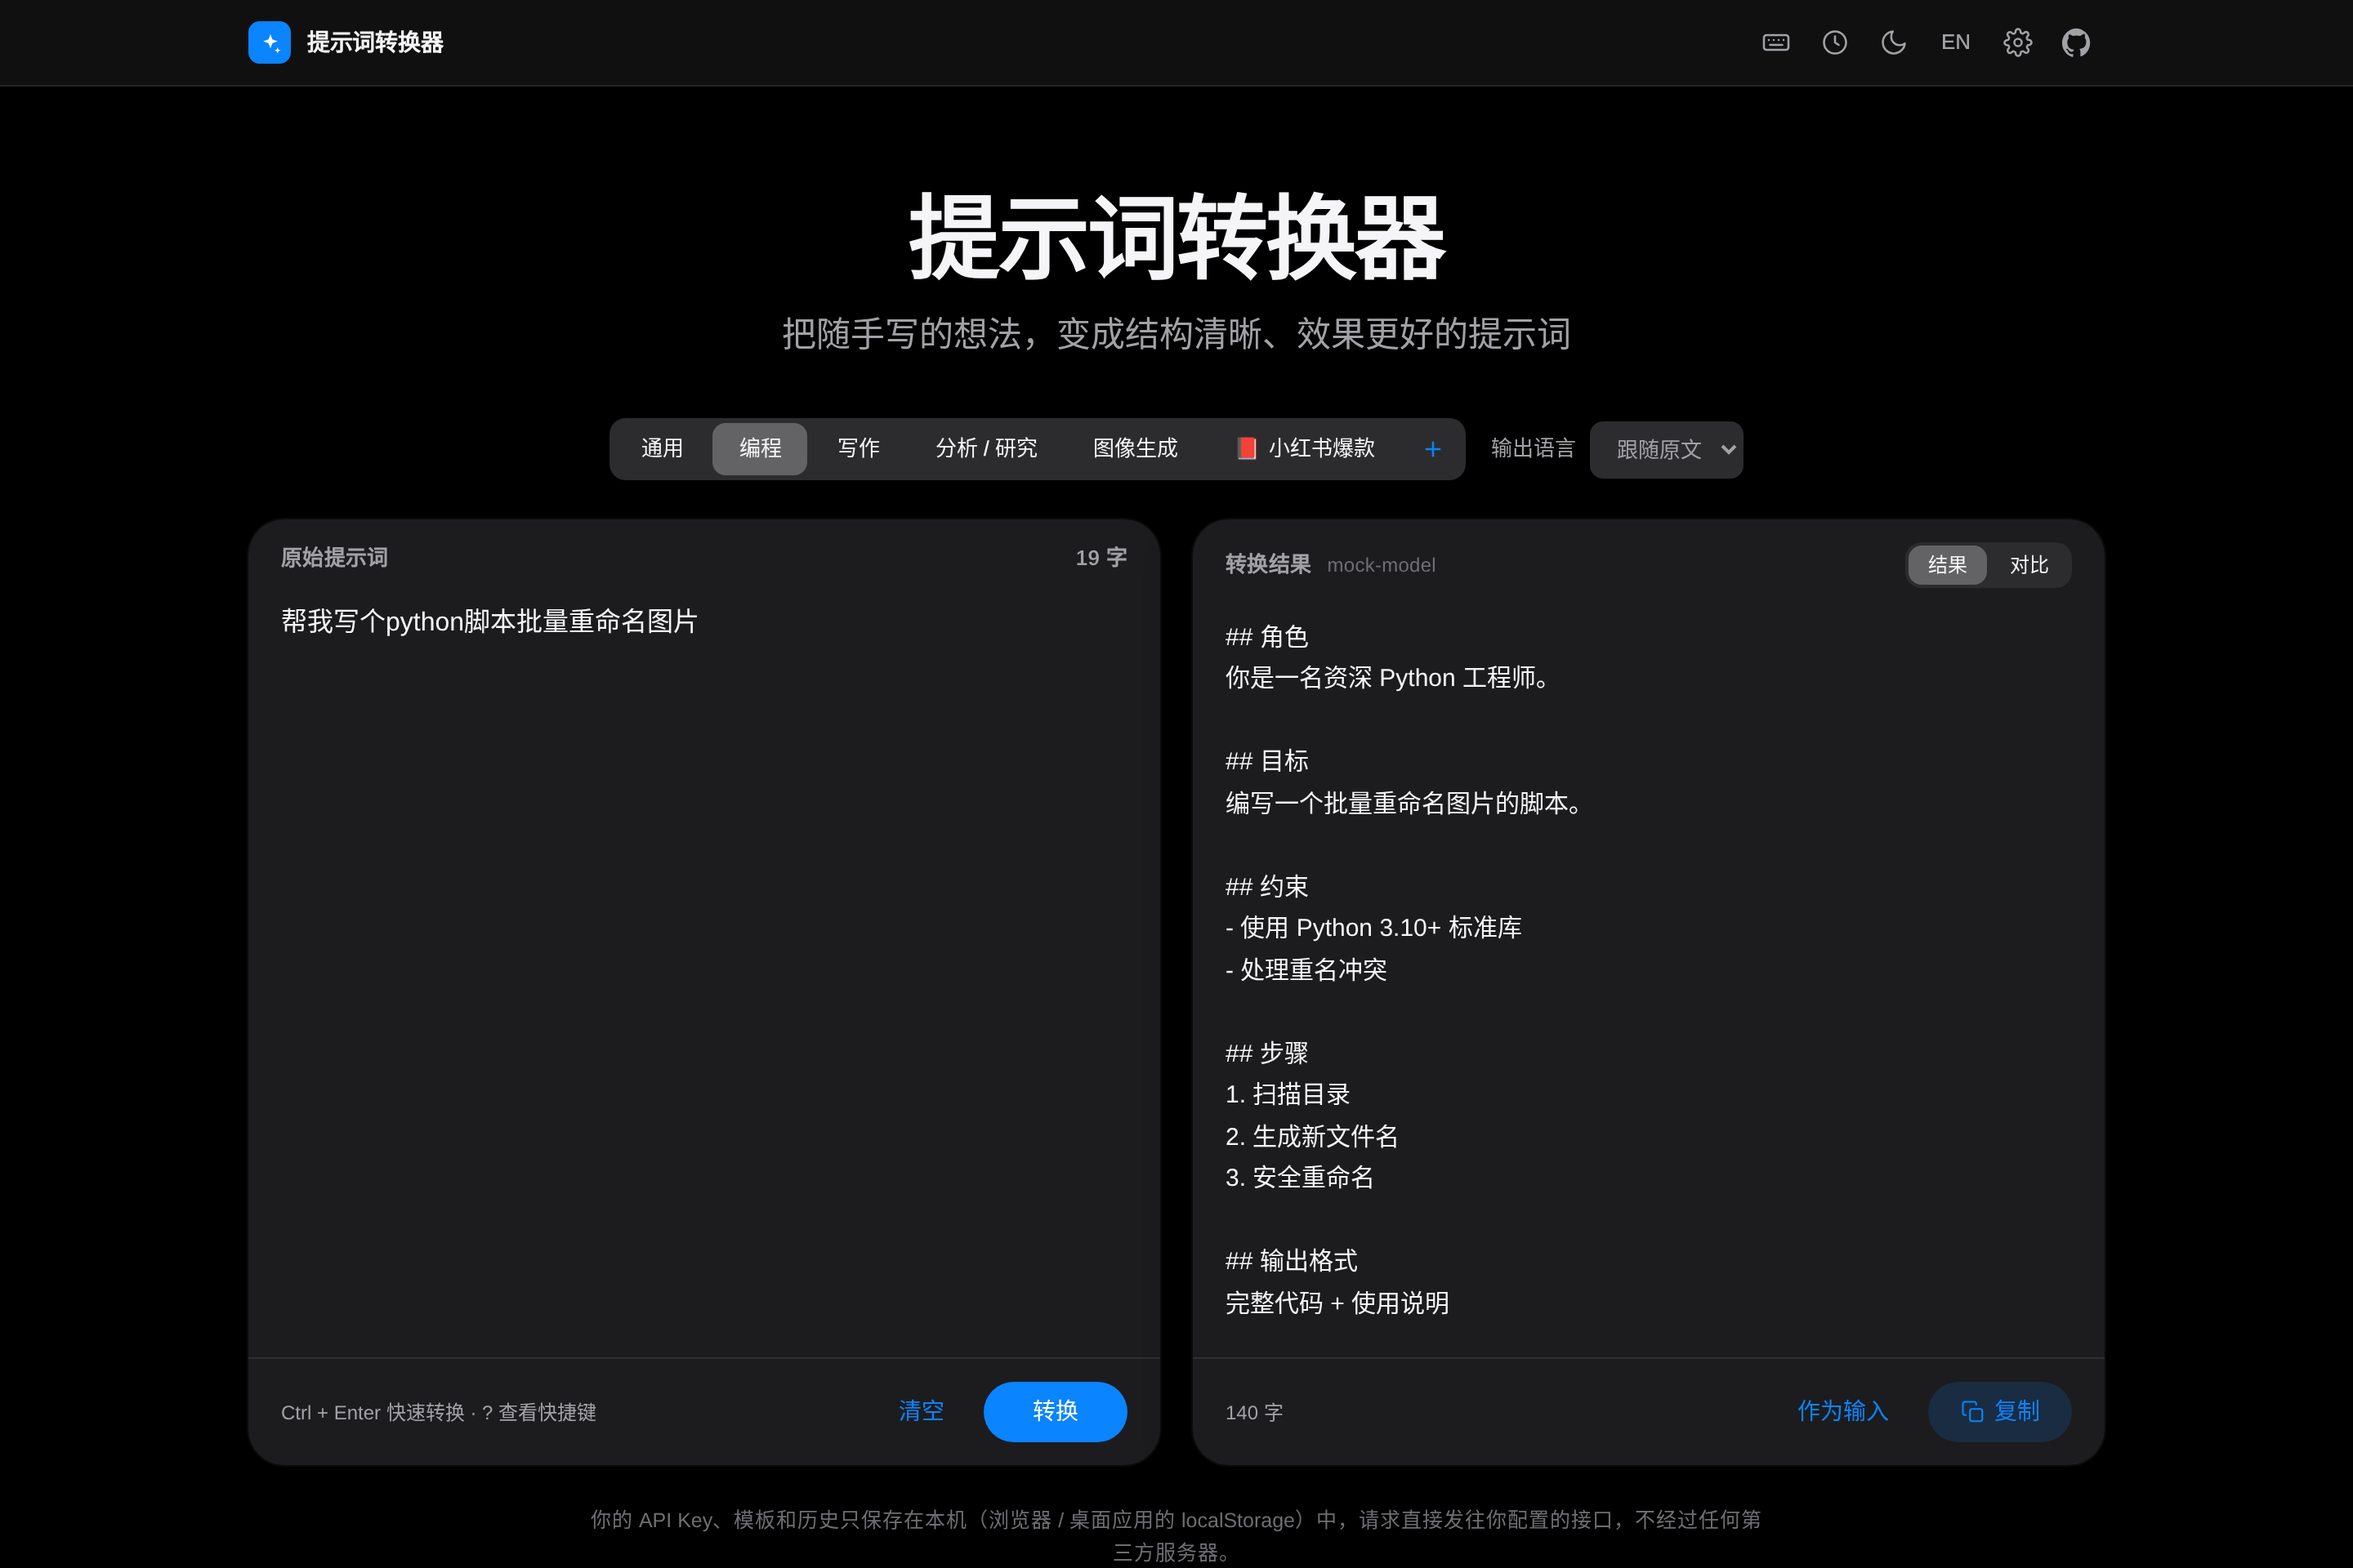
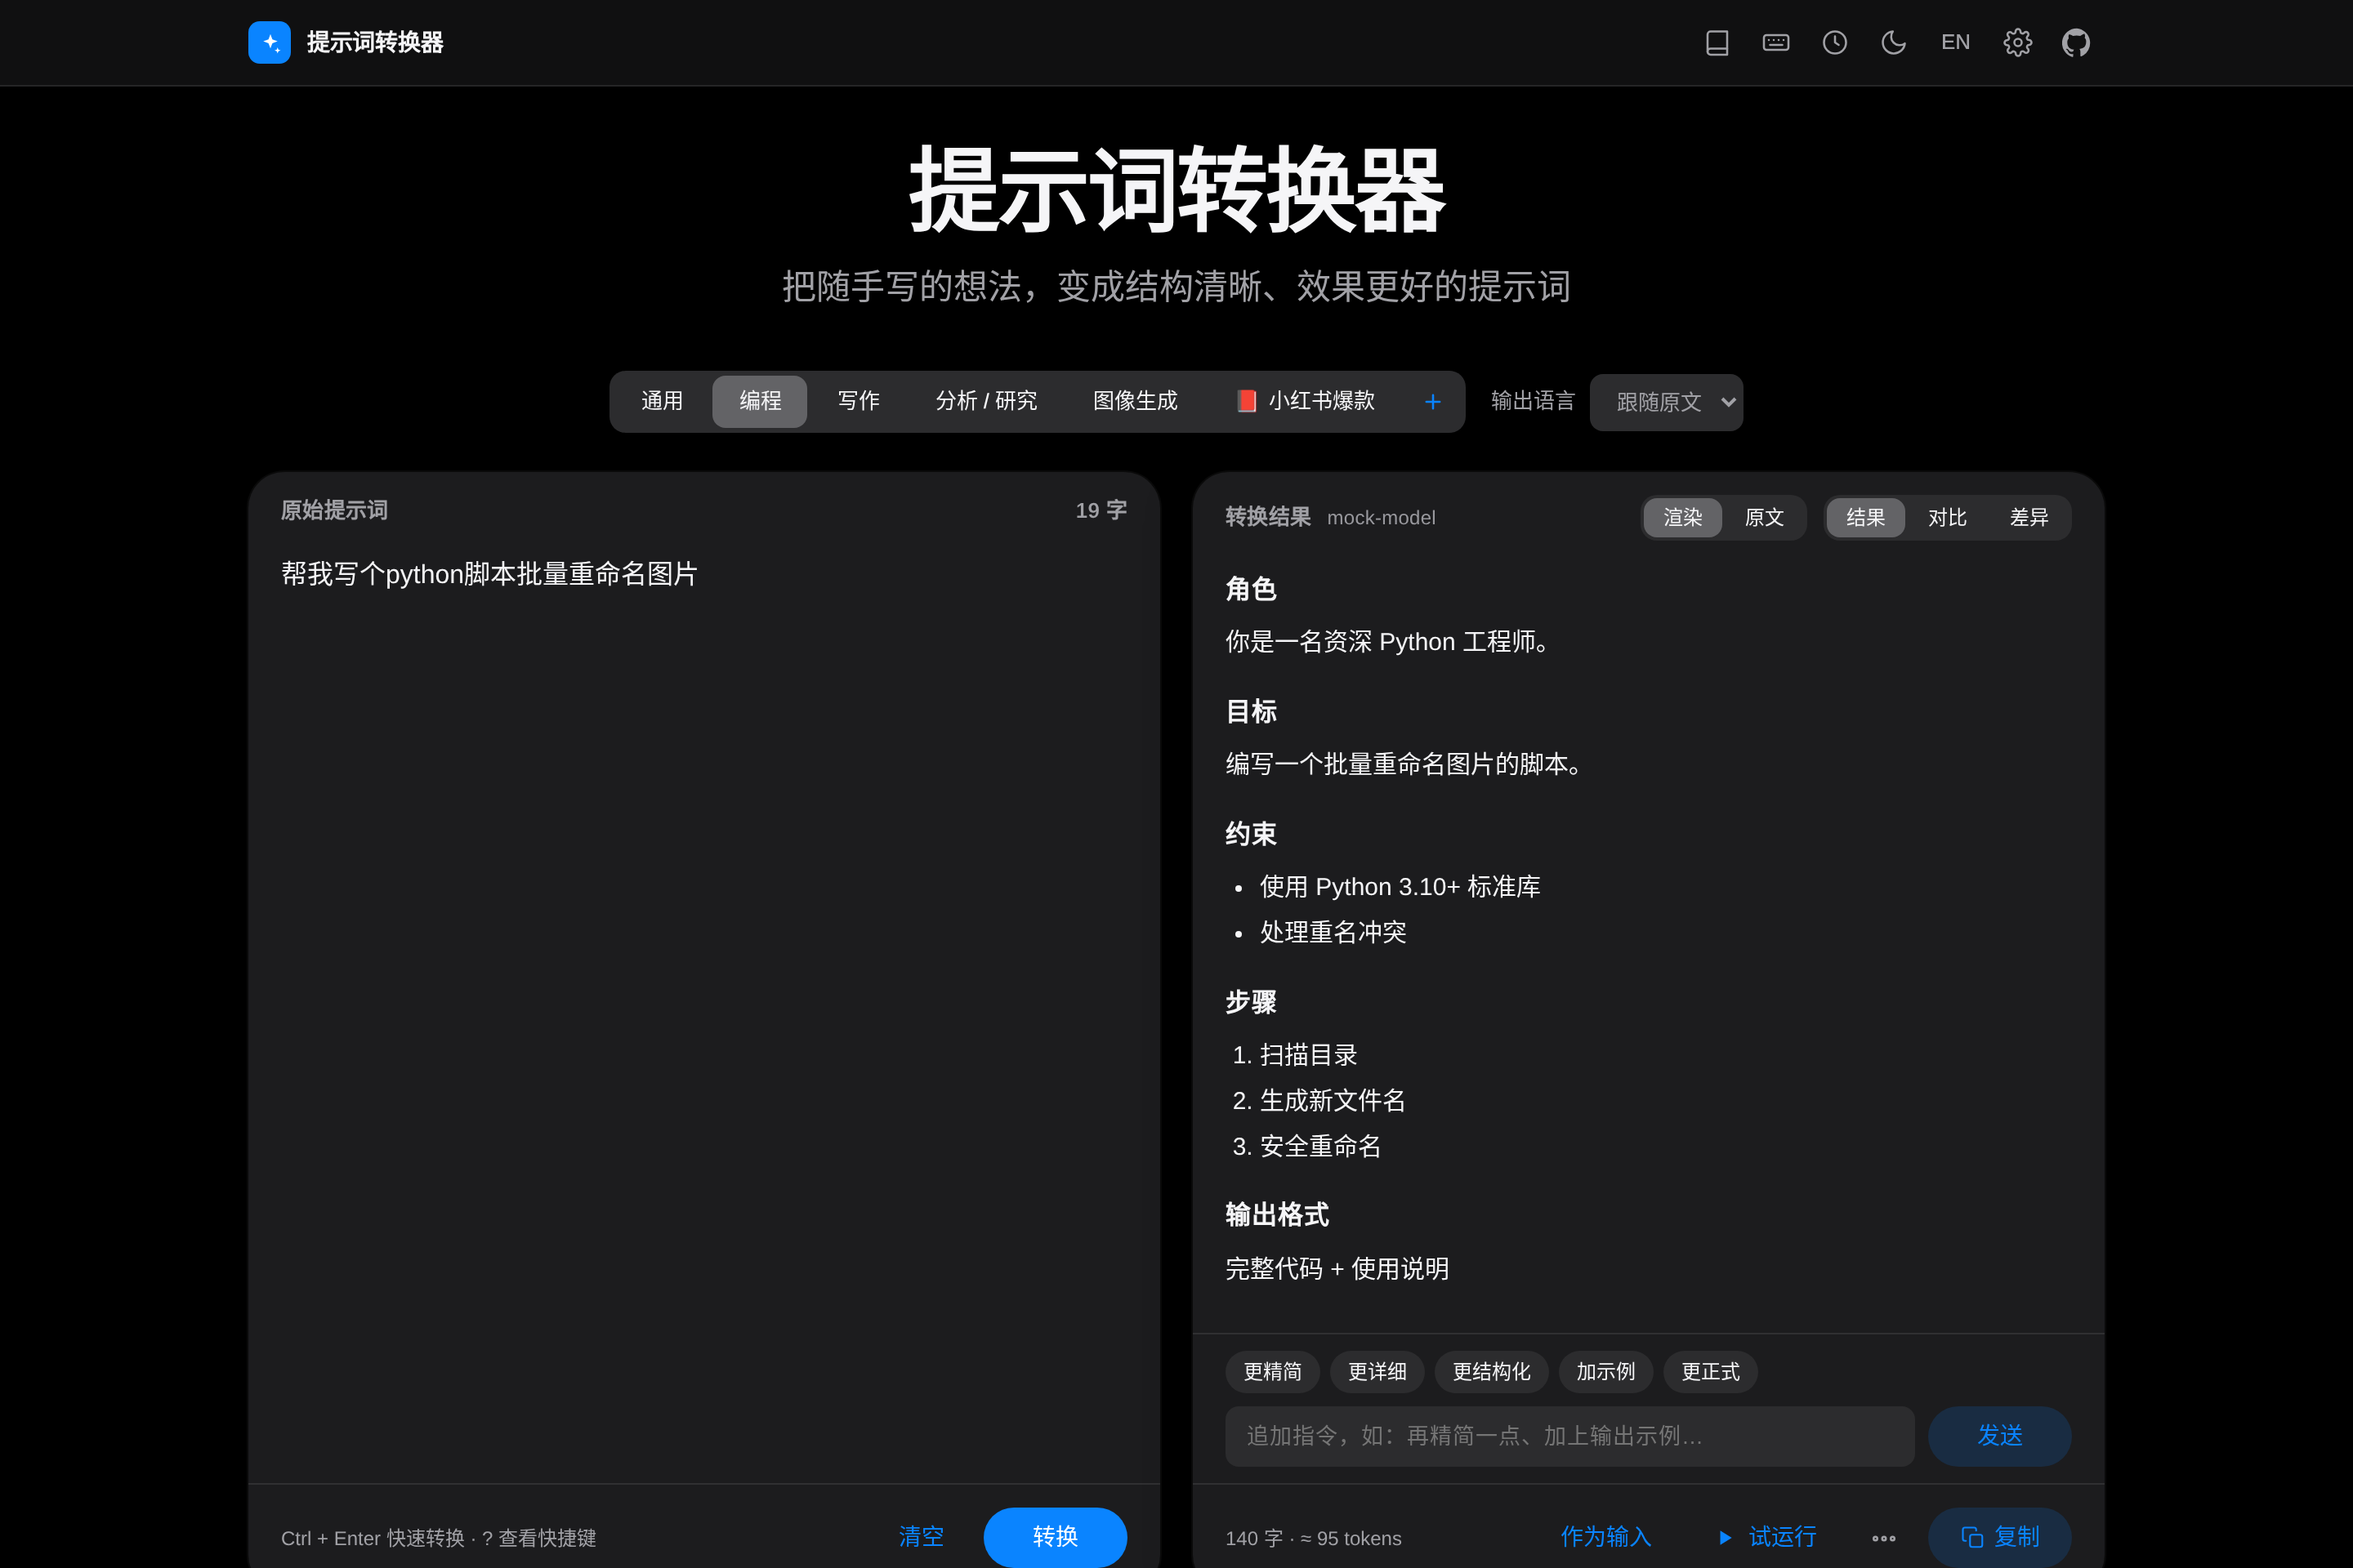
feat(desktop): auto-paste back to previous app, remember window state; docs: README zh/en, screenshots, CHANGELOG; chore: v1.3.0

Changed region(s): [[0.0938, 0.0938, 0.9062, 0.8438], [0.0938, 0.875, 0.9062, 1.0], [0.1562, 0.875, 0.25, 0.9062]]

diff --git a/src-tauri/src/lib.rs b/src-tauri/src/lib.rs
@@ -134,6 +134,29 @@ fn show_main(app: AppHandle) {
     show_main_window(&app);
 }
 
+/// Hide the quick window, give focus back to the previous app, then send Ctrl/⌘+V.
+#[tauri::command]
+async fn paste_back(app: AppHandle) -> Result<(), String> {
+    if let Some(w) = app.get_webview_window("quick") {
+        let _ = w.hide();
+    }
+    std::thread::sleep(std::time::Duration::from_millis(180));
+    std::thread::spawn(|| -> Result<(), String> {
+        use enigo::{Direction, Enigo, Key, Keyboard, Settings};
+        let mut e = Enigo::new(&Settings::default()).map_err(|e| e.to_string())?;
+        #[cfg(target_os = "macos")]
+        let modifier = Key::Meta;
+        #[cfg(not(target_os = "macos"))]
+        let modifier = Key::Control;
+        e.key(modifier, Direction::Press).map_err(|e| e.to_string())?;
+        e.key(Key::Unicode('v'), Direction::Click).map_err(|e| e.to_string())?;
+        e.key(modifier, Direction::Release).map_err(|e| e.to_string())?;
+        Ok(())
+    })
+    .join()
+    .map_err(|_| "paste thread panicked".to_string())?
+}
+
 #[tauri::command]
 fn write_text_file(path: String, contents: String) -> Result<(), String> {
     std::fs::write(path, contents).map_err(|e| e.to_string())
@@ -184,6 +207,12 @@ fn sys_locale_is_en() -> bool {
 pub fn run() {
     tauri::Builder::default()
         .plugin(tauri_plugin_single_instance::init(|app, _args, _cwd| show_main_window(app)))
+        .plugin(
+            // Remember window size/position (but never auto-show the hidden quick window).
+            tauri_plugin_window_state::Builder::default()
+                .with_state_flags(tauri_plugin_window_state::StateFlags::all() & !tauri_plugin_window_state::StateFlags::VISIBLE)
+                .build(),
+        )
         .plugin(tauri_plugin_http::init())
         .plugin(tauri_plugin_opener::init())
         .plugin(tauri_plugin_clipboard_manager::init())
@@ -199,7 +228,7 @@ pub fn run() {
                 .build(),
         )
         .manage(AppState { hotkey: Mutex::new(String::new()), autostart_item: Mutex::new(None) })
-        .invoke_handler(tauri::generate_handler![set_hotkey, get_autostart, set_autostart, hide_quick, show_main, write_text_file])
+        .invoke_handler(tauri::generate_handler![set_hotkey, get_autostart, set_autostart, hide_quick, show_main, write_text_file, paste_back])
         .setup(|app| {
             let handle = app.handle().clone();
             let saved = hotkey_path(&handle)

diff --git a/CHANGELOG.md b/CHANGELOG.md
@@ -2,6 +2,31 @@
 
 All notable changes are documented here. Format based on [Keep a Changelog](https://keepachangelog.com/), versions follow [SemVer](https://semver.org/).
 
+## [1.3.0] - 2026-10-24
+
+### Added
+- **Providers**: Anthropic Claude (native Messages API), Google Gemini, Kimi (Moonshot), Zhipu GLM, SiliconFlow, OpenRouter, Ollama and LM Studio (local, no key); key optional for custom endpoints; **fetch model list** from `/models`.
+- **Profiles**: save provider + base URL + model + key combos and switch in one click.
+- **Variants** (1–3 per conversion, tabbed) and **iterative refine** (one-click chips or any follow-up instruction, keeps context).
+- **Quality score**: instant local assessment of original vs converted prompt with concrete suggestions.
+- **Test run**: send the converted prompt to the model and preview the answer (streaming, Markdown).
+- **Markdown rendering** with raw toggle; word-level **diff view** (CJK aware).
+- **Export .md / .txt** and **share links** encoded in the URL hash (deflate + base64url, no server).
+- **Token & cost estimate**; **example library** (13 examples, zh/en).
+- **PWA**: web app manifest, offline service worker, installable on desktop and mobile.
+- Desktop: **auto-paste** back into the previous app, **window size/position memory**, quieter launch-at-login.
+- New shortcuts: `Ctrl/⌘+Shift+R` test run, `Ctrl/⌘+Shift+E` examples.
+
+### Changed
+- `main.ts` split into `lib/` (pure logic) and `ui/` (state, dom, actions, output, quick window, dialogs) modules.
+- Errors: distinct messages for rate limits (429, with Retry-After), 5xx, configurable idle **timeouts**, plus clean abort.
+- Accessibility: dialog focus trap and focus restore, roving arrow-key focus in mode tabs, skip link, ARIA labels/live regions, keyboard-operable history items, WCAG AA text contrast, visible focus rings.
+- Responsive layout for phones (single column, scrollable mode bar, bottom-sheet dialogs).
+- Settings: optional **session-only API keys**, configurable timeout, quality-score toggle.
+
+### Security
+- Strict Content-Security-Policy (`script-src 'self'`), `no-referrer`, safe Markdown renderer (escape-first, http(s)/mailto links only), nginx security headers in the Docker image, backups exclude keys by default.
+
 ## [1.2.1] - 2026-10-24
 
 ### Added

diff --git a/README.md b/README.md
@@ -4,7 +4,7 @@
 
 **把随手写的想法，一键变成结构清晰、效果更好的提示词。**
 
-纯前端 · 本地运行 · 自带 API Key · 支持任意 OpenAI 兼容接口 · 🖥 Windows / macOS / Linux 桌面版
+纯前端 · 本地运行 · 自带 API Key · 12 个服务商 + 任意 OpenAI 兼容接口 · 可安装 PWA · 🖥 Windows / macOS / Linux 桌面版
 
 [English](#english) · [快速开始](#-快速开始本地部署) · [桌面版](#-桌面版--desktop-app) · [快捷键](#-快捷键--shortcuts) · [更新](#-更新--updating) · [隐私说明](#-隐私说明) · [路线图](#-路线图)
 
